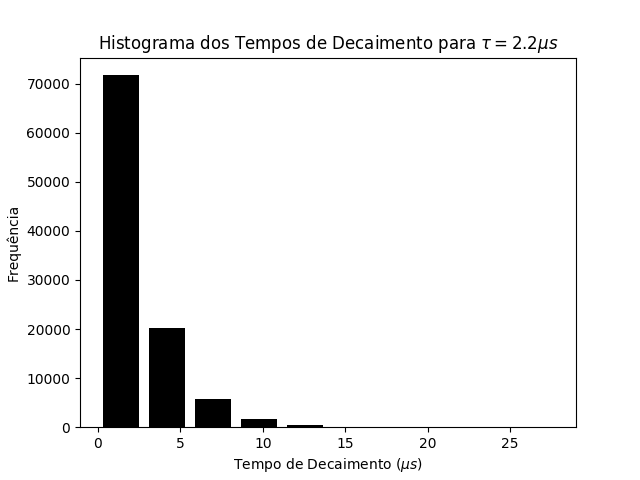
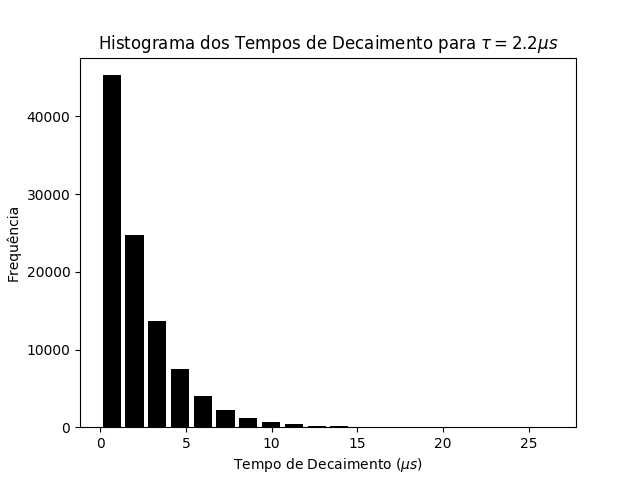
moar bins

diff --git a/part1/task03.py b/part1/task03.py
@@ -6,10 +6,11 @@ import numpy as np
 import matplotlib.pyplot as plt
 
 MAX = 10**5
+BINS = 20
 f = lambda x: -2.2*math.log(1 - x)
 
 def plot(values):
-  plt.hist(values, histtype='bar', rwidth=0.8, color='black')
+  plt.hist(values, histtype='bar', rwidth=0.8, color='black', bins=BINS)
   plt.xlabel('Tempo de Decaimento ($\\mu s$)')
   plt.ylabel('Frequência')
   plt.title('Histograma dos Tempos de Decaimento para $\\tau = 2.2 \\mu s$')
